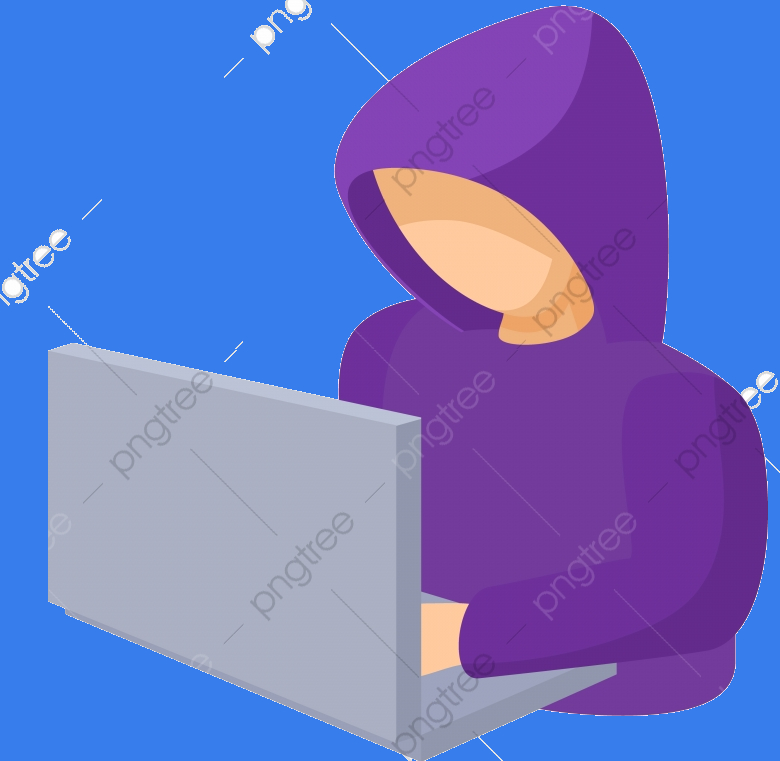
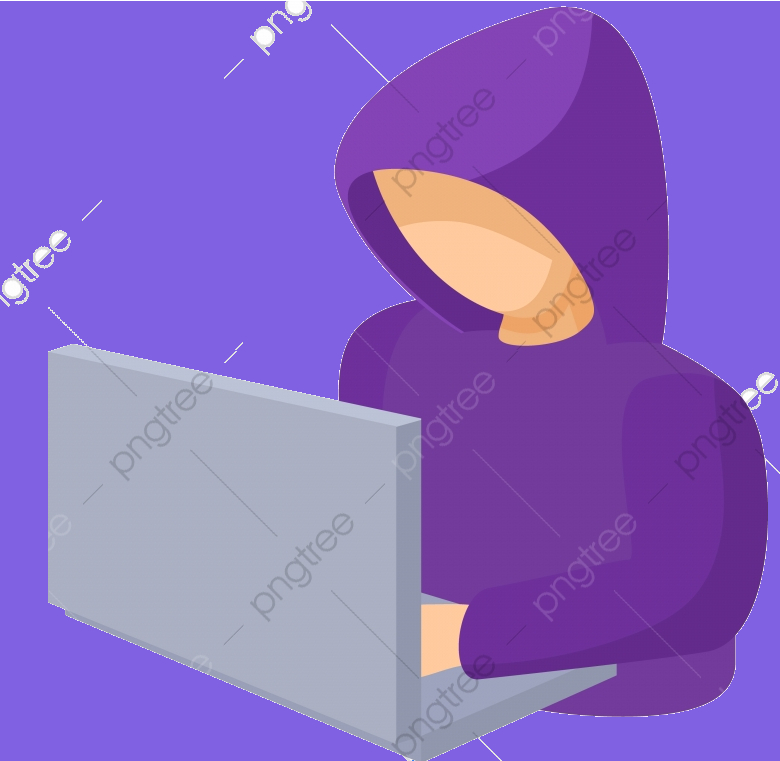
changes of css properties of section3

diff --git a/root/welcome_page.html b/root/welcome_page.html
@@ -44,7 +44,7 @@
         </div>
     </section >
     <section class="svg_div1">
-        <svg xmlns="http://www.w3.org/2000/svg" viewBox="0 0 1440 320"><path fill="#377dec" fill-opacity="1" d="M0,128L120,138.7C240,149,480,171,720,154.7C960,139,1200,85,1320,58.7L1440,32L1440,0L1320,0C1200,0,960,0,720,0C480,0,240,0,120,0L0,0Z"></path></svg>
+        <svg xmlns="http://www.w3.org/2000/svg" viewBox="0 0 1440 320"><path fill="#8061e2" fill-opacity="1" d="M0,128L120,138.7C240,149,480,171,720,154.7C960,139,1200,85,1320,58.7L1440,32L1440,0L1320,0C1200,0,960,0,720,0C480,0,240,0,120,0L0,0Z"></path></svg>
 
     </section>
     <section id="sec_2">
@@ -55,7 +55,7 @@
             </div>
             <div class="box_2">
                 <h1>Share Tasks</h1>
-                <p>Lorem ipsum dolor sit amet consectetur adipisicing elit. Alias possimus consectetur nesciunt corrupti doloribus vero, quae vel asperiores dolor voluptatem! Libero maxime molestiae adipisci quos quibusdam explicabo temporibus laborum est.</p>
+                <p>Keep one another on track with a simpe shared task list.<br>Create tasks for you or your partner, and add due dates to help keep things on schedule.</p>
             </div>
         </div>
 
@@ -63,7 +63,7 @@
         <div class="contains">
             <div class="box_1">
                 <h1>Chat Live</h1>
-                <p>Lorem ipsum dolor sit amet consectetur adipisicing elit. Alias possimus consectetur nesciunt corrupti doloribus vero, quae vel asperiores dolor voluptatem! Libero maxime molestiae adipisci quos quibusdam explicabo temporibus laborum est.</p>
+                <p>Connect with people worldwide who have the same hardworking lifestyle as you,<br> and collaborate together to bring new and better projects maybe..</p>
             </div>
             <div class="box_2">
                 <img src="./images/wp_img/chatlive.jpg" alt="Photo-Tasks" width="400px" >
@@ -83,26 +83,26 @@
             </div>
             <div class="box_b">
                 <img src="./images/wp_img/sorting-out.jpg" width="150px">
-                <h2>Business Partners</h2>
-                <p>Lorem ipsum Lorem ipsum Lorem ipsum Lorem ipsum Lorem ipsum</p>
+                <h2>Sorting Out</h2>
+                <p>Helps for makings students aware of which assignments they have to turn in sooner, work on more or just to remind them the due date. </p>
             </div>
             <div class="box_c">
                 <img src="./images/wp_img/security.jpg" width="150px" >
-                <h2>Business Partners</h2>
-                <p>Lorem ipsum Lorem ipsum Lorem ipsum Lorem ipsum Lorem ipsum</p>
+                <h2>Privacy</h2>
+                <p>Grades and rated assignments dont have to be seen by everyone, save them on eStudent to keep it private.</p>
             </div>
 
         </div>
         <div class="contains">
             <div class="box_d">
                 <img src="./images/wp_img/collect.jpg" width="150px">
-                <h2>Business Partners</h2>
-                <p>Lorem ipsum Lorem ipsum Lorem ipsum Lorem ipsum Lorem ipsum</p>
+                <h2>Business Collecting</h2>
+                <p>Best collecting algorithms save so much of your time, instead of having to look up for things manually and very often.</p>
             </div>
             <div class="box_e">
                 <img src="./images/wp_img/review.jpg" width="150px">
-                <h2>Business Partners</h2>
-                <p>Lorem ipsum Lorem ipsum Lorem ipsum Lorem ipsum Lorem ipsum</p>
+                <h2>Reviews</h2>
+                <p>Students can review each others projekts and help each other out on what is good and what could get better.</p>
             </div>
         </div>
     </section>
@@ -118,7 +118,7 @@
         </div>
     </section>
     <section class="svg_div2">
-        <svg xmlns="http://www.w3.org/2000/svg" viewBox="0 0 1440 320"><path fill="#377dec" fill-opacity="1" d="M0,256L120,245.3C240,235,480,213,720,218.7C960,224,1200,256,1320,272L1440,288L1440,320L1320,320C1200,320,960,320,720,320C480,320,240,320,120,320L0,320Z"></path></svg>
+        <svg xmlns="http://www.w3.org/2000/svg" viewBox="0 0 1440 320"><path fill="#8061e2" fill-opacity="1" d="M0,256L120,245.3C240,235,480,213,720,218.7C960,224,1200,256,1320,272L1440,288L1440,320L1320,320C1200,320,960,320,720,320C480,320,240,320,120,320L0,320Z"></path></svg>
     </section>
     <section id="sec_5">
         <div class="last_box">

diff --git a/root/styles/welcome_page.css b/root/styles/welcome_page.css
@@ -11,7 +11,7 @@ body{
 
 header{
     padding:50px 0px 0px 0px;
-background-color:rgb(55,125,236) ;
+background-color:rgb(128, 97, 226) ;
 color: white;
 
 
@@ -24,7 +24,7 @@ color: white;
 .nav{
     float:right;
     margin-top:30px;
-    background-color: rgb(55,125,236) ;
+    background-color:rgb(128, 97, 226);
 
 }
 header a{
@@ -61,7 +61,7 @@ header li{
 
 .box_left{
     color:white;
-    background: rgb(55,125,236);
+    background:rgb(128, 97, 226);
     padding-left: 20px;
     padding-top: 70px;
     width:60%;
@@ -71,7 +71,7 @@ header li{
 #sec_1, #sec_5{
     height:100%;
     width:100%;
-    background: rgb(55,125,236);
+    background:rgb(128, 97, 226);
 
 }
 
@@ -80,7 +80,7 @@ width:40%;
 height:300px;
 padding-left: 20px;
 padding-bottom: 30px;
-background: rgb(55,125,236);
+background:rgb(128, 97, 226);
 
 }
 #sec_2{
@@ -89,10 +89,10 @@ background: rgb(55,125,236);
 .box_right img{
     float:right;
     margin-top:0px;
-    padding: 0px;
+    padding-right: 50px;
     height:300px;
     width:auto;
-    background: rgb(55,125,236);
+    background: rgb(128, 97, 226)
 }
 
  .box_1, .box_2{
@@ -104,7 +104,7 @@ background: rgb(55,125,236);
     margin: -20px;
 }
  #sec_3{
-     background-color:rgb(215, 212, 205);
+     background-color:rgb(128, 97, 226);
  }
  .box_a{
     padding-left: 10%;
@@ -119,7 +119,7 @@ width:30%;
     padding-left: 10%;
 }
 #sec_3 p{
-    width:200px;
+    width:300px;
 }
 
 #sec_4 .big h1, #sec_3 h1{
@@ -154,7 +154,7 @@ margin-top: 0;
     
     height: 400px;
     width: 100%;
-    background-color:rgb(48, 112, 212);
+    background-color:rgb(128, 97, 226);
     color:white;
     margin-top: 0;
 }
@@ -218,7 +218,7 @@ padding: 0 10% 0 10%;
 
     #sec1{
         height: 600px;
-        background: rgb(55,125,236);
+        background: rgb(128, 97, 226);
         display:block;
     }
         
